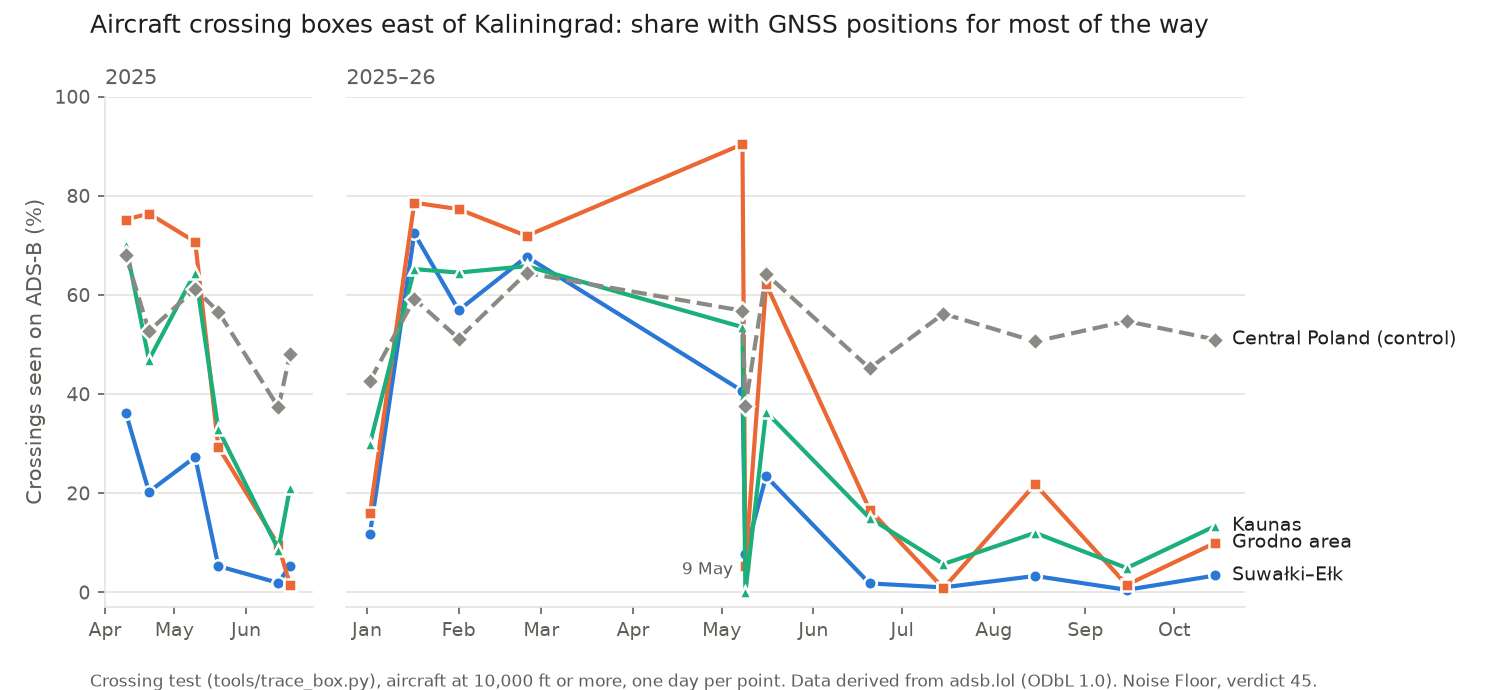
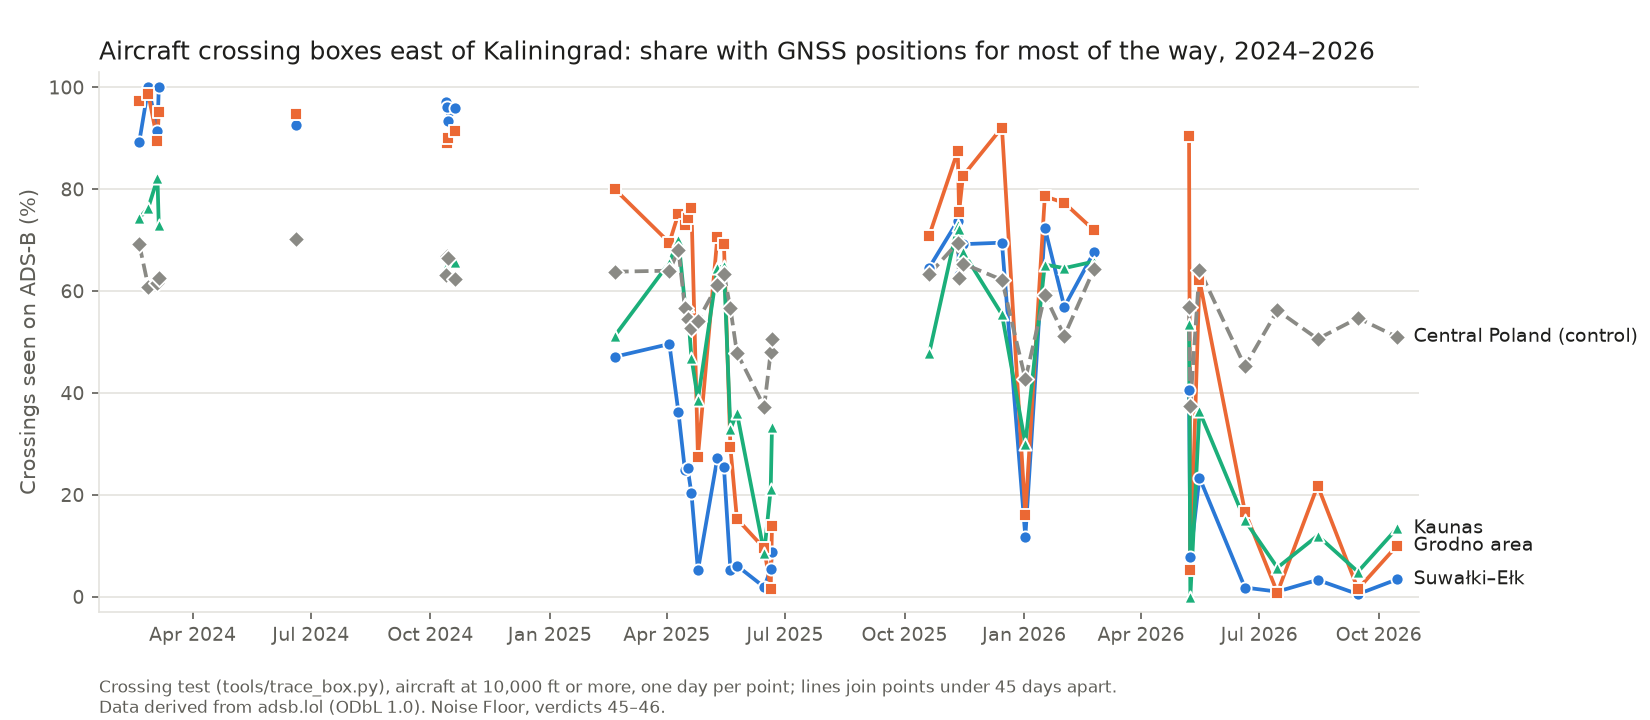
Verdict 46: the loss east of Kaliningrad began between late Oct 2024 and Feb 2025 (2024 was clean)
Crossing test on every other raw day on disk (no downloads): 9 days of 2024, 8 more of Feb-Jun 2025, 5 of Oct-Dec 2025.
Suwalki-Elk box seen: 89-100% on all 2024 days (incl. 20 Jun 2024); 47% on 20 Feb 2025; 2-26% late Apr-Jun 2025;
63-74% Oct-Dec 2025; 0.5-3% Jun-Oct 2026. Central Poland 37-70% throughout. Corrections: verdict 45 called it a
recurring season and said it covered every raw day on disk (it covered 18); the year write-up now says new since 2025.
Figure now spans Feb 2024 - Oct 2026.

diff --git a/docs/validation/phase1.md b/docs/validation/phase1.md
@@ -306,6 +306,7 @@ Then:
 | 39 | False look-alike: Kiruna weather-radar fault and exercise chaff, 5–6 Mar 2024 (66.5–69.5°N, 17–25°E) | 0.0% and 1.0% degraded, against 0.0% on 27 Feb (88–104 aircraft-hexes a day) | **Pass.** A weather-radar artefact leaves no GNSS signal (coverage there is thin) |
 | 40 | Radio-horizon localizer, first version (southern Baltic; 9 May, 2 Jan, 1 Feb, 24 Feb 2026) | Stacked best crossing at 55.10°N 19.52°E, offshore about 55 km NW of Baltiysk, with NACp events at 80% of the radio horizon. Day by day, every top peak lies within about 20–80 km of the western Sambia peninsula | **Points at the Sambia coast, not yet a fix.** The reach scale was tuned on the same days and moves the peak by up to about 50 km |
 | 41 | Localizer against the 2025 TDOA fixes (Gattis, Cydejko & Akos 2026), scored with settings fixed in advance | Top peak 20 km from the Baltiysk-harbour fix on 3 Apr; 37, 48 and 45 km from the coastal-site fix on 15 Apr, 17 Apr and 21 Jun (1 hit of 4 at 25 km; 0 of 2 in the interference windows). The target cell always ranked in the top 2% of 3,496 cells. Mean miss 38 km, against 38 km for naming Kaliningrad city and 52 km for the centroid of onsets | **Fail.** It finds the area but not the site: the two TDOA sites are 21 km apart, finer than the localizer resolves |
+| 46 | When did the loss east of Kaliningrad start? The same crossing test on every other raw day on disk: 9 days of 2024, 8 more of Feb–Jun 2025, 5 of Oct–Dec 2025 | Suwałki–Ełk box seen: 89–100% on all 9 days of 2024 (Feb–Oct, including 20 Jun 2024); 47% on 20 Feb 2025; 2–26% from late Apr to Jun 2025; 63–74% Oct–Dec 2025; 0.5–3% Jun–Oct 2026. Central Poland 37–70% throughout | **A change that began between late Oct 2024 and Feb 2025, not a long-running season.** It eased only partly in winter 2025–26 and has been heavier and longer in 2026 |
 | 45 | Position loss east of Kaliningrad, Apr 2025 – Oct 2026: crossing test in four boxes (Suwałki–Ełk, Grodno area, Kaunas, central Poland as control) on 20 days of raw traces | Suwałki–Ełk box seen on ADS-B: 20–36% (Apr 2025), 2–5% (late May–Jun 2025), 57–72% (Jan–Feb 2026, outside the holiday surge), 1–3% (Jun–Oct 2026). Grodno and Kaunas boxes the same shape; central Poland 37–68% throughout | **Recurring summer position loss, longer in 2026.** Aircraft fly through but lose GNSS positions (in 2026 mostly seen as MLAT-only, in 2025 as dark). The daily per-hex share understates it, because aircraft without positions drop out |
 | 44 | Localizer v3 (heading-balanced) against v2 on a second held-out set (10 and 20 Apr, 10 and 20 May, 20 Jun 2025; rules fixed before download) | v3: 3 hits of 5 at 25 km, mean 23.1 km (5.5 km on 10 Apr). v2: 2 of 5, 30.6 km. Baselines: Kaliningrad city 0 of 5 (38.4 km), onset centroid 2 of 5 (42.9 km), fixed point 54.70°N 20.24°E 5 of 5 (22.9 km) | **Fail against the constant guess.** v3 improves on v2, but one fixed point between the two sites does as well every day. The 25 km rule can't separate a localizer from a constant when two sites 21 km apart are both active; the next test needs single-site days or a tighter radius |
 | 43 | A350 visibility hypothesis: 19 days of raw traces over the southern Baltic box (crossings at FL300+; 9 jammed and 5 quiet days) | Jammed days: A350s seen on 89% of 224 crossings (75 airframes), 74% of their positions degraded; narrowbodies seen on 43% of 2,809, 777s 61%, 787s 59%. Highest seen share on 7 of 8 full jammed days. Quiet days: every family seen on 88–94%, but 28% of A350 positions degraded against 1–8%. Degraded episodes: median 8–17 min for A350/A380, against 2 min | **Confirmed, plus a second effect.** A350s keep broadcasting degraded positions where other types go dark, and their degraded episodes last 4–8 times longer. Both fit a documented ADIRU–AESS behaviour that sets NACp to zero when one satellite is degraded (ICAO CNS SG/29 IP/05). The type over-representation is most likely a reporting artefact |
@@ -585,11 +586,11 @@ direction can't trade location against reach along its own line. It was develope
 - **What would test it properly:** days or hours with a single known active site, a tighter radius (about 10 km), or a
   different jammer far from any second site.
 
-## Position loss east of Kaliningrad: a recurring summer season (25 Oct 2026)
+## Position loss east of Kaliningrad, summer 2025 and 2026 (25 Oct 2026)
 
 The year analysis (`docs/assessment/year-trends.md`) flagged a res-3 cell at 53.92N 23.70E, by the Lithuania–Belarus–Poland
 border, as active on 4% of days in Oct–Dec 2025 and 96% in Jul–Oct 2026. The crossing test from verdicts 34–35
-(`tools/trace_box.py report`, aircraft at 10,000 ft or more) was run on every raw day on disk from Apr 2025 to Oct 2026, in
+(`tools/trace_box.py report`, aircraft at 10,000 ft or more) was run on 18 raw days from Apr 2025 to Oct 2026 (more in verdict 46), in
 four boxes: Suwałki–Ełk (53.5–54.35N, 21.6–23.0E, on Kaliningrad's south-eastern border), the Grodno area (53.5–54.35N,
 23.0–24.4E), Kaunas (54.6–55.45N, 23.5–24.9E) and central Poland (52.0–52.85N, 19.5–20.9E) as a control. The 2025 days were
 chosen by a date rule (the 10th, 15th and 20th) for the localizer tests, not for jamming.
@@ -617,9 +618,9 @@ Share of crossings with ADS-B positions for most of the way ("seen"):
 | 15 Sep 2026 | 0.5% | 1.5% | 5% | 55% |
 | 15 Oct 2026 | 3% | 10% | 13% | 51% |
 
-![Share of crossings seen on ADS-B in four boxes, Apr 2025 – Oct 2026](img/position_loss_east_kaliningrad.png)
+![Share of crossings seen on ADS-B in four boxes, Feb 2024 – Oct 2026](img/position_loss_east_kaliningrad.png)
 
-*Lines join single sample days; there is no data between the points.*
+*All sample days from verdicts 45 and 46 (Feb 2024 – Oct 2026); lines join days under 45 days apart, and there is no data between the points.*
 
 - **Position loss, not routing or a receiver outage.** 73–148 aircraft crossed the Suwałki–Ełk box on summer days,
   against 87–124 on the winter days. In 2026 most crossings are MLAT-only (75–93% from June): ground receivers hear the
@@ -630,9 +631,10 @@ Share of crossings with ADS-B positions for most of the way ("seen"):
   the losses showed as dark crossings (0% MLAT-only in the three eastern boxes), in summer 2026 mostly as MLAT tracks.
   MLAT coverage at these altitudes evidently differed between the two periods (the Suwałki–Ełk box had 8–15% MLAT-only
   crossings on 10–20 Apr 2025 and 15–22% in Jan–Feb 2026), so compare "seen" across years, not "dark".
-- **A season, longer in 2026.** Loss builds through April and May and is near total from June. It eased in winter
-  2025–26 (57–79% seen in Jan–Feb, apart from the holiday surge), and the daily tables show the Grodno-area cell quiet in
-  October 2025 (active 1 day of 31). In October 2026 it was still heavy (3–13% seen; active 20 of 21 days).
+- **Summer 2025 and 2026, longer in 2026.** Loss builds through April and May and is near total from June. It eased in
+  winter 2025–26 (57–79% seen in Jan–Feb, apart from the holiday surge), and the daily tables show the Grodno-area cell
+  quiet in October 2025 (active 1 day of 31). In October 2026 it was still heavy (3–13% seen; active 20 of 21 days).
+  Verdict 46 found 2024 clean, so this started in early 2025; it isn't a long-running yearly cycle.
 - **The daily map understates it.** Aircraft that lose their position drop out of the per-hex counts, so a box where
   almost every aircraft loses position can show a share of 30–50% from the few that keep one. The map's "Fewer aircraft
   than usual" view compares each hex with its previous 14 days, so it catches an onset but not a loss that lasts all
@@ -644,6 +646,49 @@ Share of crossings with ADS-B positions for most of the way ("seen"):
 
 Next: count MLAT-only and dark aircraft per hex in the daily pipeline, as a position-loss measure beside the share (a
 method change; needs a review first). More 2025 days (Jul–Dec) would date the 2025 season's end.
+
+## When the loss east of Kaliningrad started (verdict 46, 25 Oct 2026)
+
+The verdict 45 test on every other raw day already on disk (no downloads): nine days of 2024 kept from the validation and
+spoofing work, eight more days of February–June 2025, and five of October–December 2025 (11 Jun 2025 left out: the archive
+on disk is a truncated copy). Share of crossings seen on ADS-B:
+
+| Day | Suwałki–Ełk | Grodno area | Kaunas | Central Poland (control) |
+|---|---|---|---|---|
+| 20 Feb 2024 | 89% | 97% | 74% | 69% |
+| 27 Feb 2024 | 100% | 99% | 76% | 61% |
+| 5 Mar 2024 | 92% | 90% | 82% | 62% |
+| 6 Mar 2024 | 100% | 95% | 73% | 62% |
+| 20 Jun 2024 | 92% | 95% | 71% | 70% |
+| 13 Oct 2024 | 97% | 90% | 68% | 63% |
+| 14 Oct 2024 | 96% | 89% | 64% | 67% |
+| 15 Oct 2024 | 93% | 90% | 66% | 66% |
+| 20 Oct 2024 | 96% | 91% | 66% | 62% |
+| 20 Feb 2025 | 47% | 80% | 51% | 64% |
+| 3 Apr 2025 | 50% | 70% | 66% | 64% |
+| 15 Apr 2025 | 25% | 73% | 58% | 57% |
+| 17 Apr 2025 | 25% | 74% | 57% | 55% |
+| 25 Apr 2025 | 5% | 28% | 39% | 54% |
+| 15 May 2025 | 26% | 69% | 65% | 63% |
+| 25 May 2025 | 6% | 15% | 36% | 48% |
+| 21 Jun 2025 | 9% | 14% | 33% | 50% |
+| 20 Oct 2025 | 65% | 71% | 48% | 63% |
+| 11 Nov 2025 | 74% | 88% | 73% | 70% |
+| 12 Nov 2025 | 63% | 76% | 72% | 62% |
+| 15 Nov 2025 | 69% | 83% | 68% | 65% |
+| 15 Dec 2025 | 70% | 92% | 55% | 62% |
+
+- **2024 was clean.** All nine days, February to October and including 20 June 2024, had 89–100% of Suwałki–Ełk crossings
+  with positions. By 20 February 2025 it was 47%, so the change began between late October 2024 and February 2025.
+- **Summer 2025:** heavy from late April (5–26% seen in the Suwałki–Ełk box, 14–28% in the Grodno area on the worst days),
+  varying from day to day (Suwałki–Ełk: 5% on 25 April, 26% on 15 May, 6% on 25 May).
+- **Autumn and winter 2025–26:** partial recovery to 63–74% (Suwałki–Ełk) and 71–92% (Grodno), below 2024's levels.
+- **2026:** heavier and longer than 2025: 0.5–3% seen from June to October 2026, against 65% on 20 October 2025.
+- Kaunas reads lower than the other boxes in every period because aircraft descending to Kaunas and Vilnius leave the
+  10,000 ft floor inside it (long dark gaps that aren't interference); use it for its trend only.
+- Not localized, and the cause isn't tested here. The 2024 days were chosen for other tests (validation cases, spoofing
+  controls), not by a date rule, so they could under-represent bad days, but nine clean days out of nine across eight
+  months is a clear contrast with 2025–26.
 
 ## Next
 

diff --git a/docs/assessment/year-trends.md b/docs/assessment/year-trends.md
@@ -25,10 +25,10 @@ reviewed by a person beyond the checks below.*
 - **The same dates surge in several areas at once:** around New Year (Kaliningrad, the southern Black Sea and the
   Caucasus, 28 Dec – 3 Jan) and around 7–17 May (Kaliningrad, the Gulf of Finland, the southern Black Sea and the
   Caucasus). The May run brackets 9 May. A link to Victory Day security measures is a hypothesis, not tested here.
-- **The one "new" area is a returning season, not a new area.** A res-3 cell centred at 53.92N 23.70E, where Lithuania,
-  Belarus and Poland meet, went from active on 4% of days (Oct–Dec 2025) to 96% (late Jul – Oct 2026). Raw traces show
-  near-total position loss in that area and the Suwałki–Ełk box in May–June 2025 as well, an easing in winter, and its
-  return from May 2026, lasting longer this year (`docs/validation/phase1.md`, verdict 45).
+- **The one "new" area isn't new this year, but it is new since 2025.** A res-3 cell centred at 53.92N 23.70E, where
+  Lithuania, Belarus and Poland meet, went from active on 4% of days (Oct–Dec 2025) to 96% (late Jul – Oct 2026). Raw
+  traces show near-total position loss there in summer 2025 too, a partial easing in winter, and its return from May 2026,
+  lasting longer this year. In 2024 the same boxes were clean (`docs/validation/phase1.md`, verdicts 45 and 46).
 - **No weekday pattern of any practical size.** The night peak is strong everywhere in the
   Baltic and Black Sea: 63–87% of aircraft-hexes degraded at 00–02 UTC against 4–19% in the morning.
 - **Worldwide, the count of jamming-scale hexes held steady** (a median 231 a day in the first 92 days and 245 in the
@@ -142,8 +142,9 @@ it (p = 0.007; Saturday 31.9% against 27–30% on other days). No other area com
 **Started (1 cell):** 53.92N 23.70E (centre of a res-3 cell, about 12,400 km², covering the Lithuania–Belarus–Poland
 border area around Druskininkai and Grodno). Active on 4.3% of covered days from 1 Oct to 1 Jan, and 95.7% from 22 Jul to
 21 Oct 2026; by month, active on 0–2 days a month Oct–Dec 2025, 17 of 26 days in May 2026 and 28–30 a month from July.
-**Checked in the raw traces the same night (verdict 45): not new.** The area had near-total position loss in May–June
-2025 too; the year window starts in a quiet season. The cell marks where aircraft were affected, not where a transmitter
+**Checked in the raw traces the same night (verdicts 45 and 46): not new this year.** The area had near-total position
+loss in summer 2025 too, and the year window starts in a quieter period; nine days of 2024 were clean, so it began in early
+2025. The cell marks where aircraft were affected, not where a transmitter
 is. Lithuania's regulator reports ongoing GNSS interference nationally
 ([LRT, 9 Mar 2026](https://www.lrt.lt/en/news-in-english/19/2862230/gps-jamming-incidents-reported-by-pilots-continue-in-lithuania-regulator-says)).
 
@@ -206,7 +207,7 @@ box sent no GNSS position (13–18% in Jan–Feb), and the crossing test east of
 1. ~~Gulf of Finland decline~~ **Explained (position loss, not a decline):** a position-loss measure is needed beside
    every share trend; the AIS GNSS-interference counts from Finland's open AIS remain a useful independent check.
 2. ~~Kaliningrad from May~~ **Settled: position loss** (79–86% of aircraft heard sending no position, Jun–Oct).
-3. ~~The Grodno-area cell~~ **Done (verdict 45):** position loss across all types, a recurring summer season, longer in
+3. ~~The Grodno-area cell~~ **Done (verdicts 45–46):** position loss across all types, summer 2025 and 2026 (2024 clean), longer in
    2026. Next: a position-loss measure (MLAT-only and dark aircraft per hex) in the daily pipeline.
 4. **Ankara and northeast Bulgaria:** check the aircraft types and hours; a single operator's fleet can make a cell
    look persistent.
